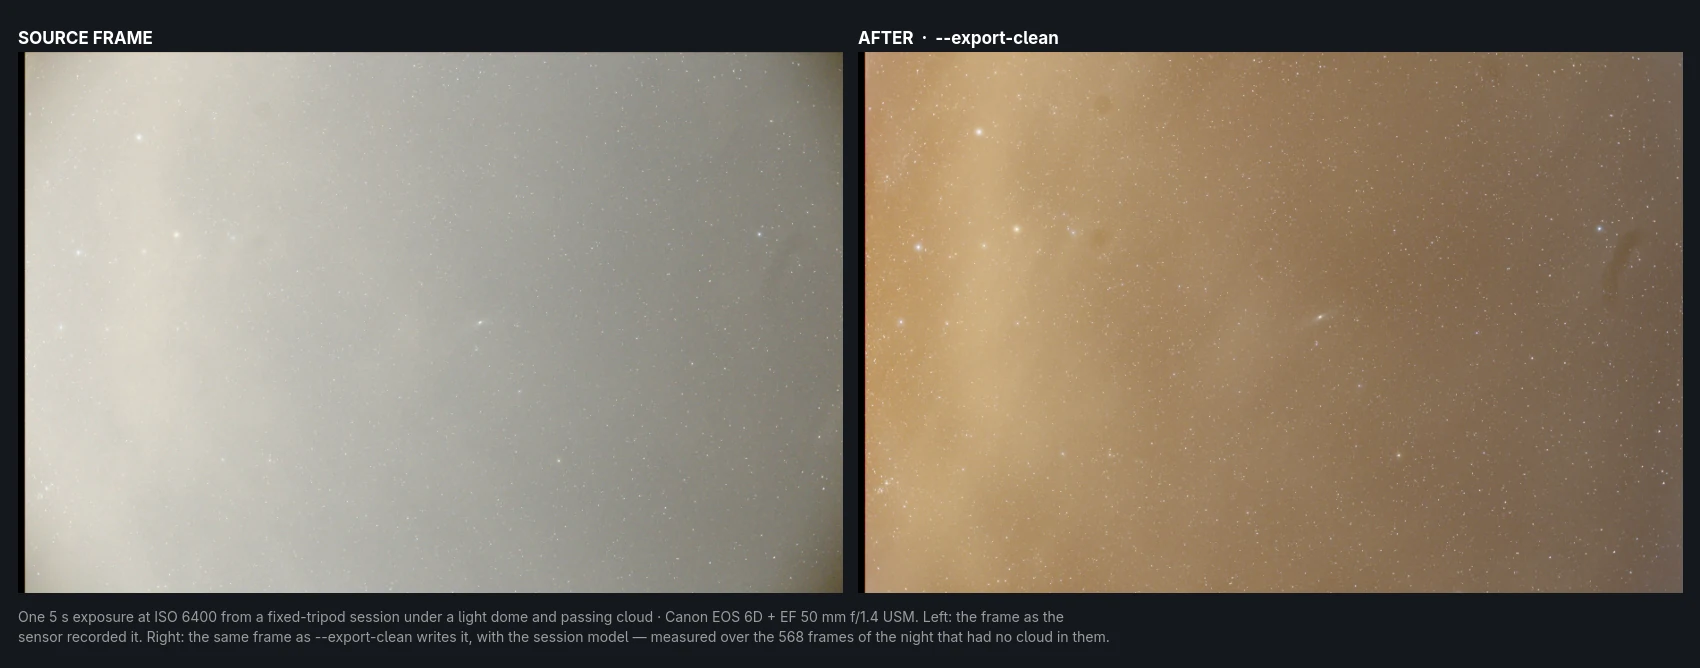
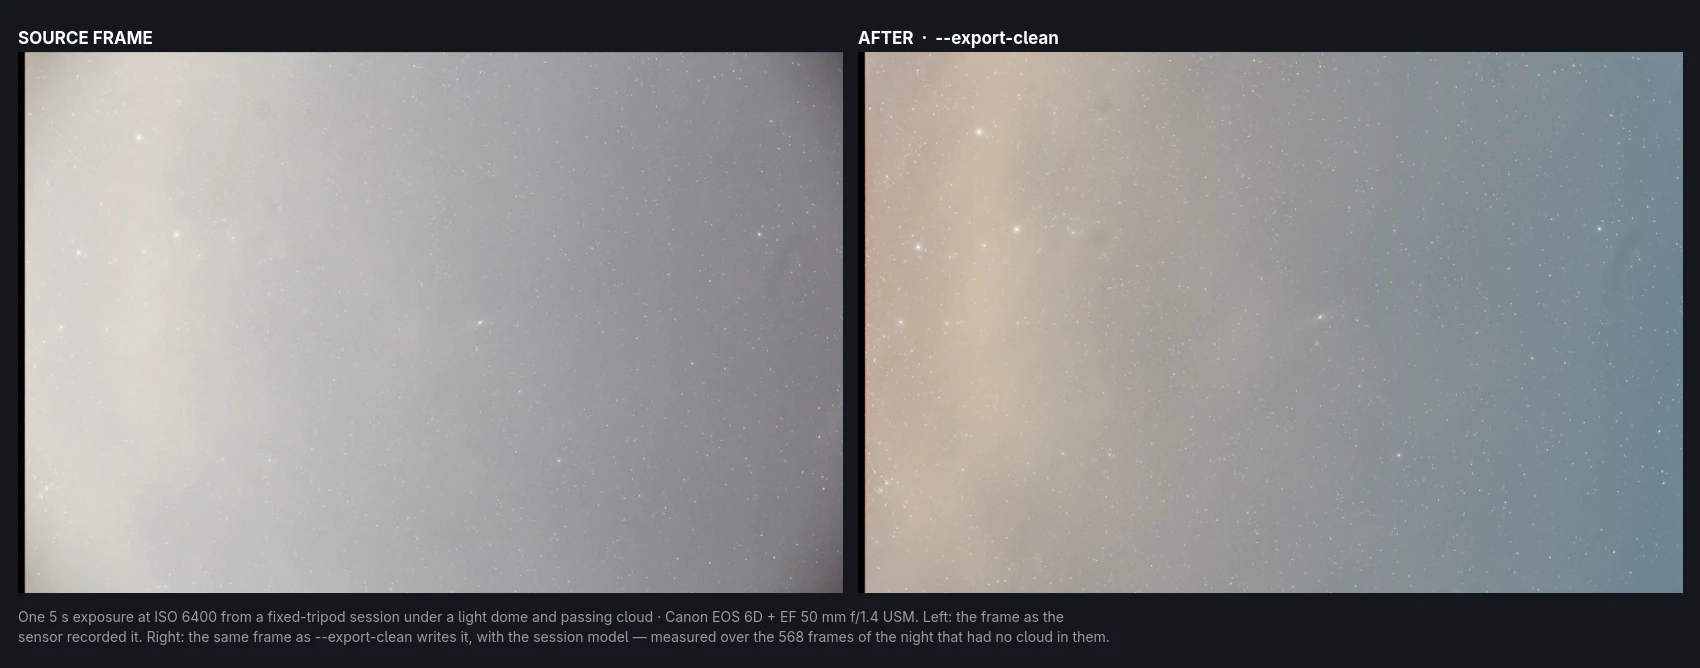
fix: align the three channels' backgrounds in the stretch
The pipeline preserves the pedestal on purpose, and the pedestal carries
the colour of whatever light the sky was under — which a camera's
daylight white balance does not neutralise. `analyze_stretch` then fitted
each black point to its own channel, which leaves that colour in the
file and puts it in the black points, where no curve in a raw developer
can reach it. On the Canon test session the background came out at 7.6%
of the range in red, 4.9% in green and 10.2% in blue: a cast the user of
the file has to undo by hand, on every frame of an exported sequence.

The white points are unchanged — the brightest 0.1% of each channel — and
the black points now share one margin:

    black_c = median_c - s * (white_c - median_c)

with `s` the largest any channel needs to keep its own 3*MAD of skirt
below its background. No channel is clipped more tightly than it would
have been on its own, the other two keep more of their foot, and the
background lands at the same height in all three by construction. The
run reports where: the same number three times.

Measured after the change — untracked Canon session, background at
18.3% / 18.3% / 18.3%, block medians R 0.2136 G 0.2043 B 0.2099 against
R 0.199 G 0.209 B 0.388 before; tracked Sony session, 4.7% / 4.7% / 4.7%,
block medians R 0.0471 G 0.0468 B 0.0470. Linear output is untouched
(`--no-stretch` bypasses all of this): tracked frames still differ from
the baseline on 0.125% of samples with max |d| = 1 LSB, against 0.123%
[…]

diff --git a/src/output.rs b/src/output.rs
@@ -56,6 +56,25 @@ fn median_mad_channel(rgb: &[f32], channel: usize) -> (f32, f32) {
 pub struct StretchParams {
     pub white: [f32; 3],
     pub blacks: [f32; 3],
+    /// The background the ends were placed around, per channel, in the input
+    /// scale. Kept so the run can report where it lands once stretched,
+    /// which is the number the neutrality of the file rests on.
+    pub median: [f32; 3],
+}
+
+impl StretchParams {
+    /// Where each channel's background lands in the output range, as a
+    /// fraction: `(median − black) / (white − black)`. The three are equal by
+    /// construction (see `analyze_stretch`), so this is the level the sky
+    /// comes out at whatever colour the night was.
+    pub fn background_level(&self) -> [f32; 3] {
+        let mut out = [0.0f32; 3];
+        for c in 0..3 {
+            let span = self.white[c] - self.blacks[c];
+            out[c] = if span > 1e-9 { (self.median[c] - self.blacks[c]) / span } else { 0.0 };
+        }
+        out
+    }
 }
 
 /// `WHITE` at 99.9 saturates only the brightest 0.1% of each channel.
@@ -68,26 +87,63 @@ pub struct StretchParams {
 /// bias and pure noise but preserves sky, milky way and nebula.
 const WHITE_PERCENTILE: f32 = 99.9;
 const BLACKS_K_MAD: f32 = 3.0;
+/// Ceiling on the margin below the background, in units of the span between
+/// the background and the white point. Reached only by an image with almost
+/// no highlights above its own sky — there is no stretch worth writing for
+/// that, and this stops the black point from running away below zero.
+const BLACKS_MAX_SPAN: f32 = 1.0;
 
 /// Analyses an interleaved RGB buffer and returns the stretch parameters.
-/// It is applied to the final stack (already balanced via `frame.wb` in
-/// `stack::add`) so that the per-channel peaks fall in comparable ranges.
+///
+/// The buffer is already white-balanced (`frame.wb`, baked in `stack::add`),
+/// but a camera's white balance is a statement about daylight, not about the
+/// light the sky was actually under. What the pipeline preserves on purpose —
+/// the pedestal, the sky's own level — carries that light's colour, and a
+/// per-channel stretch that treats each channel on its own terms leaves it
+/// there: on the Canon test session the background came out at 7.6 % of the
+/// range in red, 4.9 % in green and 10.2 % in blue, which is not a stretch
+/// artefact but a cast, and one no global curve in a raw developer can undo
+/// because it lives in the black points.
+///
+/// So the two ends are chosen to say the same thing in all three channels.
+/// Each channel's white point still saturates the brightest 0.1 % of itself,
+/// and each black point is placed so that the **background lands at the same
+/// height in the output range for R, G and B**:
+///
+/// ```text
+/// black_c = median_c − s · (white_c − median_c)
+/// ```
+///
+/// with a single `s` shared by the three. That `s` is the largest any channel
+/// needs to keep its `BLACKS_K_MAD` margin below its own background, so no
+/// channel is clipped more tightly than it would have been on its own, and
+/// the two that needed less simply keep more of their skirt. What comes out
+/// is neutral by construction: the sky sits at one level, the stars keep the
+/// colour they had relative to it, and the developer opens a file whose
+/// channels are already aligned.
 pub fn analyze_stretch(rgb: &[f32]) -> StretchParams {
-    let (m0, mad0) = median_mad_channel(rgb, 0);
-    let (m1, mad1) = median_mad_channel(rgb, 1);
-    let (m2, mad2) = median_mad_channel(rgb, 2);
-    StretchParams {
-        white: [
-            percentile_channel(rgb, 0, WHITE_PERCENTILE),
-            percentile_channel(rgb, 1, WHITE_PERCENTILE),
-            percentile_channel(rgb, 2, WHITE_PERCENTILE),
-        ],
-        blacks: [
-            (m0 - BLACKS_K_MAD * mad0).max(0.0),
-            (m1 - BLACKS_K_MAD * mad1).max(0.0),
-            (m2 - BLACKS_K_MAD * mad2).max(0.0),
-        ],
+    let mut median = [0.0f32; 3];
+    let mut mad = [0.0f32; 3];
+    let mut white = [0.0f32; 3];
+    for c in 0..3 {
+        let (m, d) = median_mad_channel(rgb, c);
+        median[c] = m;
+        mad[c] = d;
+        white[c] = percentile_channel(rgb, c, WHITE_PERCENTILE);
     }
+    let mut span = 0.0f32;
+    for c in 0..3 {
+        let above = white[c] - median[c];
+        if above > 1e-9 {
+            span = span.max(BLACKS_K_MAD * mad[c] / above);
+        }
+    }
+    let span = span.min(BLACKS_MAX_SPAN);
+    let mut blacks = [0.0f32; 3];
+    for c in 0..3 {
+        blacks[c] = (median[c] - span * (white[c] - median[c])).max(0.0);
+    }
+    StretchParams { white, blacks, median }
 }
 
 /// The camera's XYZ→camera matrix (D65) as the nine SRATIONALs the DNG
@@ -170,13 +226,15 @@ fn write_dng_impl(
         65535.0 / (white[1] - blacks[1]).max(1e-6),
         65535.0 / (white[2] - blacks[2]).max(1e-6),
     ];
-    if verbose && stretch.is_some() {
+    if verbose && let Some(st) = stretch {
         let pct = |c: usize| 100.0 * blacks[c] / white[c];
+        let bg = st.background_level();
         say!(
-            "stretch: white=R {:.6} G {:.6} B {:.6}  blacks=R {:.6} G {:.6} B {:.6} ({:.1}% / {:.1}% / {:.1}% of the range)",
+            "stretch: white=R {:.6} G {:.6} B {:.6}  blacks=R {:.6} G {:.6} B {:.6} ({:.1}% / {:.1}% / {:.1}% of the range); background at {:.1}% / {:.1}% / {:.1}% — the three aligned",
             white[0], white[1], white[2],
             blacks[0], blacks[1], blacks[2],
-            pct(0), pct(1), pct(2)
+            pct(0), pct(1), pct(2),
+            100.0 * bg[0], 100.0 * bg[1], 100.0 * bg[2]
         );
     }
 

diff --git a/README.md b/README.md
@@ -1002,12 +1002,30 @@ the borders left ragged by tracking drift.
 ### 6. Output
 
 The stack is analysed per channel to derive a linear stretch: white at the 99.9th
-percentile, black at `median − 3·MAD`. Computing both ends per channel is
+percentile of each channel, and black placed so that **the background lands at
+the same height in the output range in all three**. Both ends per channel is
 deliberate — a global white point would compress the dominant channel against a
-foreign one and introduce a tint. Those points are baked directly into the 16-bit
-data rather than delegated to the developer, so the clipping is visible even in
-raw processors that ignore `BlackLevel` on LinearRaw DNGs. `--no-stretch` keeps
-the sensor-native scale instead.
+foreign one and introduce a tint — but per channel is not enough on its own. The
+pipeline preserves the pedestal on purpose, and the pedestal carries the colour
+of whatever light the sky was under, which a camera's daylight white balance
+does not neutralise: fitting each black point to its own channel left that
+colour in the file, and in the black points, where no curve in a raw developer
+can reach it. Measured on the Canon test session, the background came out at
+7.6 % of the range in red, 4.9 % in green and 10.2 % in blue.
+
+So one margin is shared by the three: `black_c = median_c − s·(white_c −
+median_c)`, with `s` the largest any channel needs to keep its own 3·MAD of
+skirt below its background. No channel is clipped more tightly than it would
+have been alone, the other two simply keep more of their foot, and the run
+reports where the background landed — the same number three times. What the
+developer opens is a file whose channels are already aligned, with the stars
+keeping the colour they had relative to the sky.
+
+Those points are baked directly into the 16-bit data rather than delegated to
+the developer, so the clipping is visible even in raw processors that ignore
+`BlackLevel` on LinearRaw DNGs. `--no-stretch` keeps the sensor-native scale
+instead, aligned by nothing, which is what you want if the developer is where
+you would rather do all of it.
 
 The file is written as a linear RGB DNG (`PhotometricInterpretation = LinearRaw`,
 DNG 1.4.0.0) with the demosaic step already done, `WhiteLevel = 65535`,
